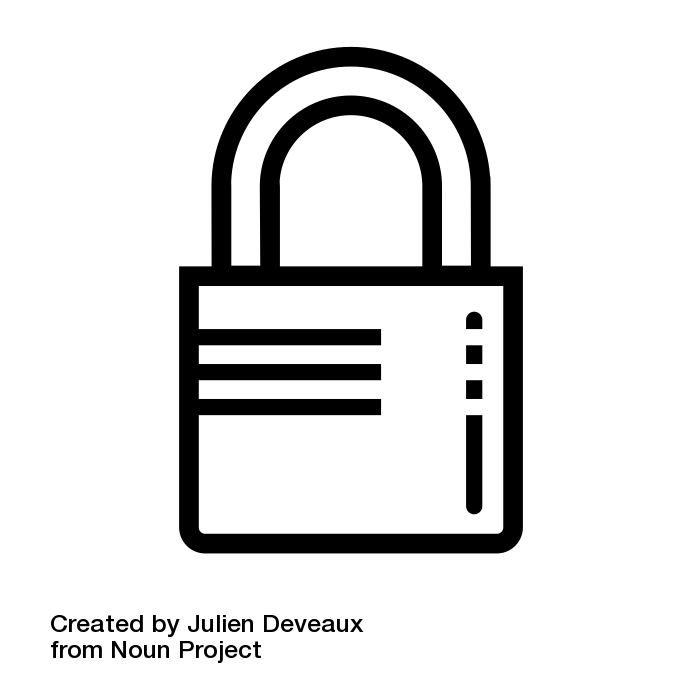
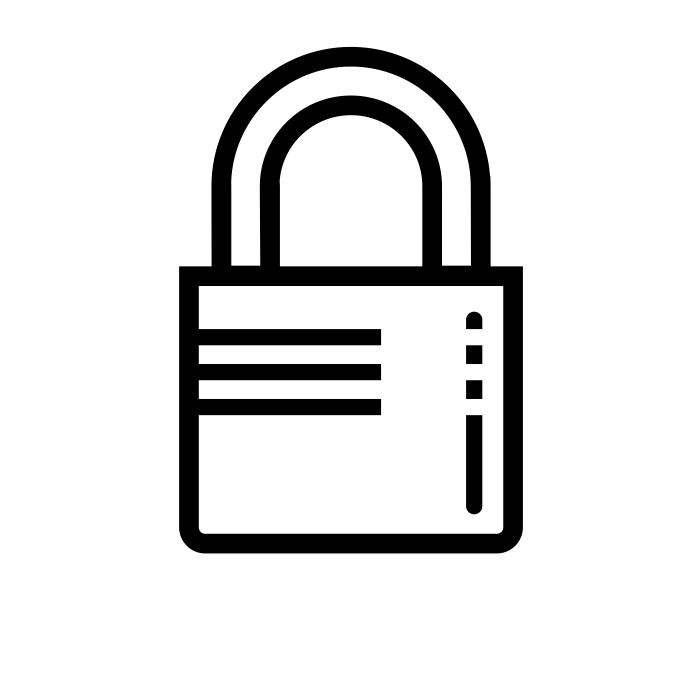
finalisation pop up connexion/inscription

Changed region(s): [[0.06, 0.87, 0.51, 0.96]]

diff --git a/Projet_2048/src/application/FXMLDocumentController.java b/Projet_2048/src/application/FXMLDocumentController.java
@@ -86,8 +86,6 @@ public class FXMLDocumentController implements Initializable, Parametres {
     @FXML
     private MenuItem pt_restart; //bouton "recommencer"
     @FXML
-    private MenuItem pt_giveup; //bouton "abandonner"
-    @FXML
     private MenuItem pt_save; //bouton "sauvegarder"
 
     @FXML
@@ -95,8 +93,11 @@ public class FXMLDocumentController implements Initializable, Parametres {
 
     @FXML
     private MenuItem op_theme;
+    
     @FXML
-    private MenuItem op_son;
+    private Button connexion_button;
+    @FXML
+    private Button inscription_button;
 
     // variables globales non définies dans la vue (fichier .fxml)
     private BaseDeDonnees bdd;
@@ -125,13 +126,15 @@ public class FXMLDocumentController implements Initializable, Parametres {
         nb_move.getStyleClass().add("nb_move");
         //bouton start et les boutons du menu
         start_button.getStyleClass().add("bouton_start");
+        //BOUTONS CONNEXION & INSCRIPTION
+        connexion_button.getStyleClass().add("connexion_button");
+        inscription_button.getStyleClass().add("inscription_button");
         //MENU
         menu_bar.getStyleClass().add("menu_bar");
         option_button.getStyleClass().add("bouton_menu");
         game_button.getStyleClass().add("bouton_menu");
         //boutons sous-menu MENU>>PARTIE>>
         pt_restart.getStyleClass().add("bouton_sous_menu");
-        pt_giveup.getStyleClass().add("bouton_sous_menu");
         pt_save.getStyleClass().add("bouton_sous_menu");
         logout_button.getStyleClass().add("bouton_sous_menu");
         //bouton SON et THEME (switch)
@@ -157,12 +160,12 @@ public class FXMLDocumentController implements Initializable, Parametres {
     private void clickStart(ActionEvent event) {
         if (!start_button.isDisable()) {
             if (start_button.getText().equals("JOUER")){ //Si c'est "jouer" sur le bouton, nous sommes dans la page d'acceuil
-                cacherComposant();
                 start_button.setText("START");
+                afficherComposant();
             }else if (start_button.getText().equals("START")){
                 partie = new Partie(this);
                 partie.start();
-                afficherComposant();
+                
                 start_button.setDisable(true);
                 container.requestFocus(); 
             }  
@@ -208,16 +211,13 @@ public class FXMLDocumentController implements Initializable, Parametres {
     /***POPUP CONNEXION***/
     @FXML
     private void clickConnexion(){
-        Platform.runLater(new Runnable() {
-            @Override
-            public void run() {
                 Dialog<Pair<String, String>> dialog = new Dialog<>();
                 dialog.setTitle("connexion.exe");
                 dialog.setHeaderText("Connecte-toi !");
                 Stage stage = (Stage) dialog.getDialogPane().getScene().getWindow();
                 //Icônes
-                stage.getIcons().add(new Image(this.getClass().getResource("img/noun_Lock.png").toString()));
-                dialog.setGraphic(new ImageView(this.getClass().getResource("img/noun_Lock.png").toString()));
+                stage.getIcons().add(new Image(this.getClass().getResource("/img/noun_Lock_small.png").toString()));
+                dialog.setGraphic(new ImageView(this.getClass().getResource("/img/noun_Lock_small.png").toString()));
                 //Set le type de bouton
                 ButtonType bouton_connexion = new ButtonType("Connexion", ButtonData.OK_DONE);
                 dialog.getDialogPane().getButtonTypes().addAll(bouton_connexion, ButtonType.CANCEL);//Création du label et txt field de pseudo et mdp
@@ -242,8 +242,20 @@ public class FXMLDocumentController implements Initializable, Parametres {
                 loginButton.setDisable(true);
                 
                 username_tf.textProperty().addListener((observable, oldValue, newValue) -> {
-                loginButton.setDisable(newValue.trim().isEmpty());
+                    if (!username_tf.getText().equals("")&& !password_tf.getText().equals("")){
+                        loginButton.setDisable(false);
+                    }else{
+                        loginButton.setDisable(true);
+                    }
                 });
+                password_tf.textProperty().addListener((observable, oldValue, newValue) -> {
+                    if (!username_tf.getText().equals("")&& !password_tf.getText().equals("")){
+                        loginButton.setDisable(false);
+                    }else{
+                        loginButton.setDisable(true);
+                    }
+                });
+               
                 dialog.getDialogPane().setContent(grid);
                 
                 Platform.runLater(() -> username_tf.requestFocus());
@@ -259,23 +271,18 @@ public class FXMLDocumentController implements Initializable, Parametres {
                 result.ifPresent(usernamePassword -> {
                     System.out.println("Pseudo=" + usernamePassword.getKey() + ", Mot de passe=" + usernamePassword.getValue());
                 });
-            }
-        });
     }
     @FXML
     private void clickInscription(){
-        Platform.runLater(new Runnable() {
-            @Override
-            public void run() {
                 Dialog<Pair<String, String>> dialog = new Dialog<>();
                 dialog.setTitle("inscription.exe");
                 dialog.setHeaderText("Inscris-toi !");
                 Stage stage = (Stage) dialog.getDialogPane().getScene().getWindow();
                 
-                stage.getIcons().add(new Image(this.getClass().getResource("img/noun_Lock.png").toString()));
-                dialog.setGraphic(new ImageView(this.getClass().getResource("img/noun_Lock.png").toString()));
+                stage.getIcons().add(new Image(this.getClass().getResource("/img/noun_Lock_small.png").toString()));
+                dialog.setGraphic(new ImageView(this.getClass().getResource("/img/noun_Lock_small.png").toString()));
                 
-                ButtonType bouton_inscription = new ButtonType("Connexion", ButtonData.OK_DONE);
+                ButtonType bouton_inscription = new ButtonType("Inscription", ButtonData.OK_DONE);
                 dialog.getDialogPane().getButtonTypes().addAll(bouton_inscription, ButtonType.CANCEL);
 
                 GridPane grid = new GridPane();
@@ -285,15 +292,11 @@ public class FXMLDocumentController implements Initializable, Parametres {
 
                 TextField username_tf = new TextField();
                 username_tf.setPromptText("Pseudo");
-                TextField mail_tf = new TextField();
-                mail_tf.setPromptText("E-mail");
                 PasswordField password_tf = new PasswordField();
                 password_tf.setPromptText("Mot de passe");
                 PasswordField password_cf_tf = new PasswordField();
                 password_cf_tf.setPromptText("Confirmation");
                 //Positionnement des fields et labels sur une grille prédéfinie
-                grid.add(new Label("E-mail:"), 0,0);
-                grid.add(mail_tf, 0,1);
                 grid.add(new Label("Pseudo:"), 1,0);
                 grid.add(username_tf, 1,1);
                 grid.add(new Label("Mot de passe:"), 2,0);
@@ -304,15 +307,30 @@ public class FXMLDocumentController implements Initializable, Parametres {
                 Node regButton = dialog.getDialogPane().lookupButton(bouton_inscription);
                 
                 username_tf.textProperty().addListener((observable, oldValue, newValue) -> {
-                    
-                    regButton.setDisable(newValue.trim().isEmpty());
+                    if (!username_tf.getText().equals("")&& !password_tf.getText().equals("") && password_cf_tf.getText().equals(password_tf.getText())){
+                        regButton.setDisable(false);
+                    }else{
+                        regButton.setDisable(true);
+                    }
                 });
+                password_tf.textProperty().addListener((observable, oldValue, newValue) -> {
+                    if (!username_tf.getText().equals("")&& !password_tf.getText().equals("") && password_cf_tf.getText().equals(password_tf.getText())){
+                        regButton.setDisable(false);
+                    }else{
+                        regButton.setDisable(true);
+                    }
+                });
+                password_cf_tf.textProperty().addListener((observable, oldValue, newValue) -> {
+                    if (!username_tf.getText().equals("")&& !password_tf.getText().equals("") && password_cf_tf.getText().equals(password_tf.getText())){
+                        regButton.setDisable(false);
+                    }else{
+                        regButton.setDisable(true);
+                    }
+                });
+                
                 dialog.getDialogPane().setContent(grid);
                 
-                Platform.runLater(() -> mail_tf.requestFocus());
                 Platform.runLater(() -> username_tf.requestFocus());
-                Platform.runLater(() -> password_tf.requestFocus());
-                Platform.runLater(() -> password_cf_tf.requestFocus());
                 
                 dialog.setResultConverter(dialogButton -> {
                     if (dialogButton == bouton_inscription) {
@@ -324,8 +342,6 @@ public class FXMLDocumentController implements Initializable, Parametres {
                 result.ifPresent(usernamePassword -> {
                     System.out.println("Pseudo=" + usernamePassword.getKey() + ", Mot de passe=" + usernamePassword.getValue());
                 });
-            }
-        });
     }
     @FXML
     public void keyPressed(KeyEvent ke) {
